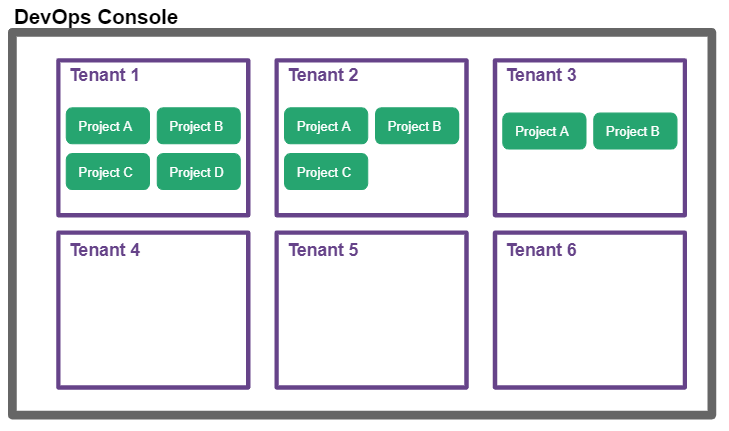
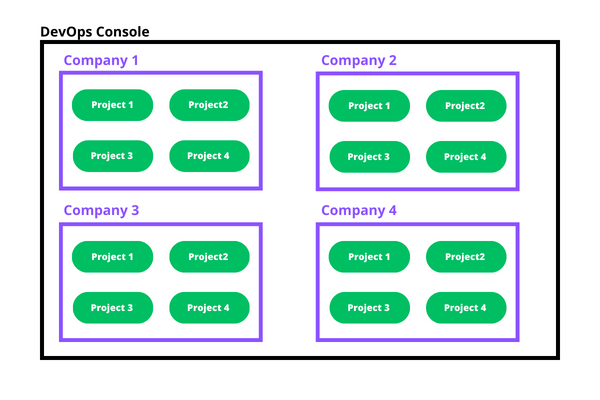
*removed "Tenant" references from doc page

diff --git a/docs/development_suite/identity-and-access-management/console-levels-and-permission-management.md b/docs/development_suite/identity-and-access-management/console-levels-and-permission-management.md
@@ -13,7 +13,7 @@ Console resources are organized in a hierarchical structure on three levels:
 
 1. **Console Level** is the root level regarding the general configuration of your entire Console. At this level you can configure resources such as Companies, Project Templates and Marketplace.
 
-1. **Company Level** is the second hierarchical level. A Company (aka Tenant) can contain several underlying Projects, which can inherit different kinds of information from the Company without needing further configuration. At this level, License, Clusters, Providers, Users and Service Accounts can be managed. To know more about Company configuration, check out the dedicated [documentation section](/development_suite/company/create.md).
+1. **Company Level** is the second hierarchical level. A Company can contain several underlying Projects, which can inherit different kinds of information from the Company without needing further configuration. At this level, License, Clusters, Providers, Users and Service Accounts can be managed. To know more about Company configuration, check out the dedicated [documentation section](/development_suite/company/create.md).
 
 1. **Project Level** is the third level of the Console. Projects are the heart of the Console: in fact, it is at this level that developers engage in creating new features and building their own Platform.
 
